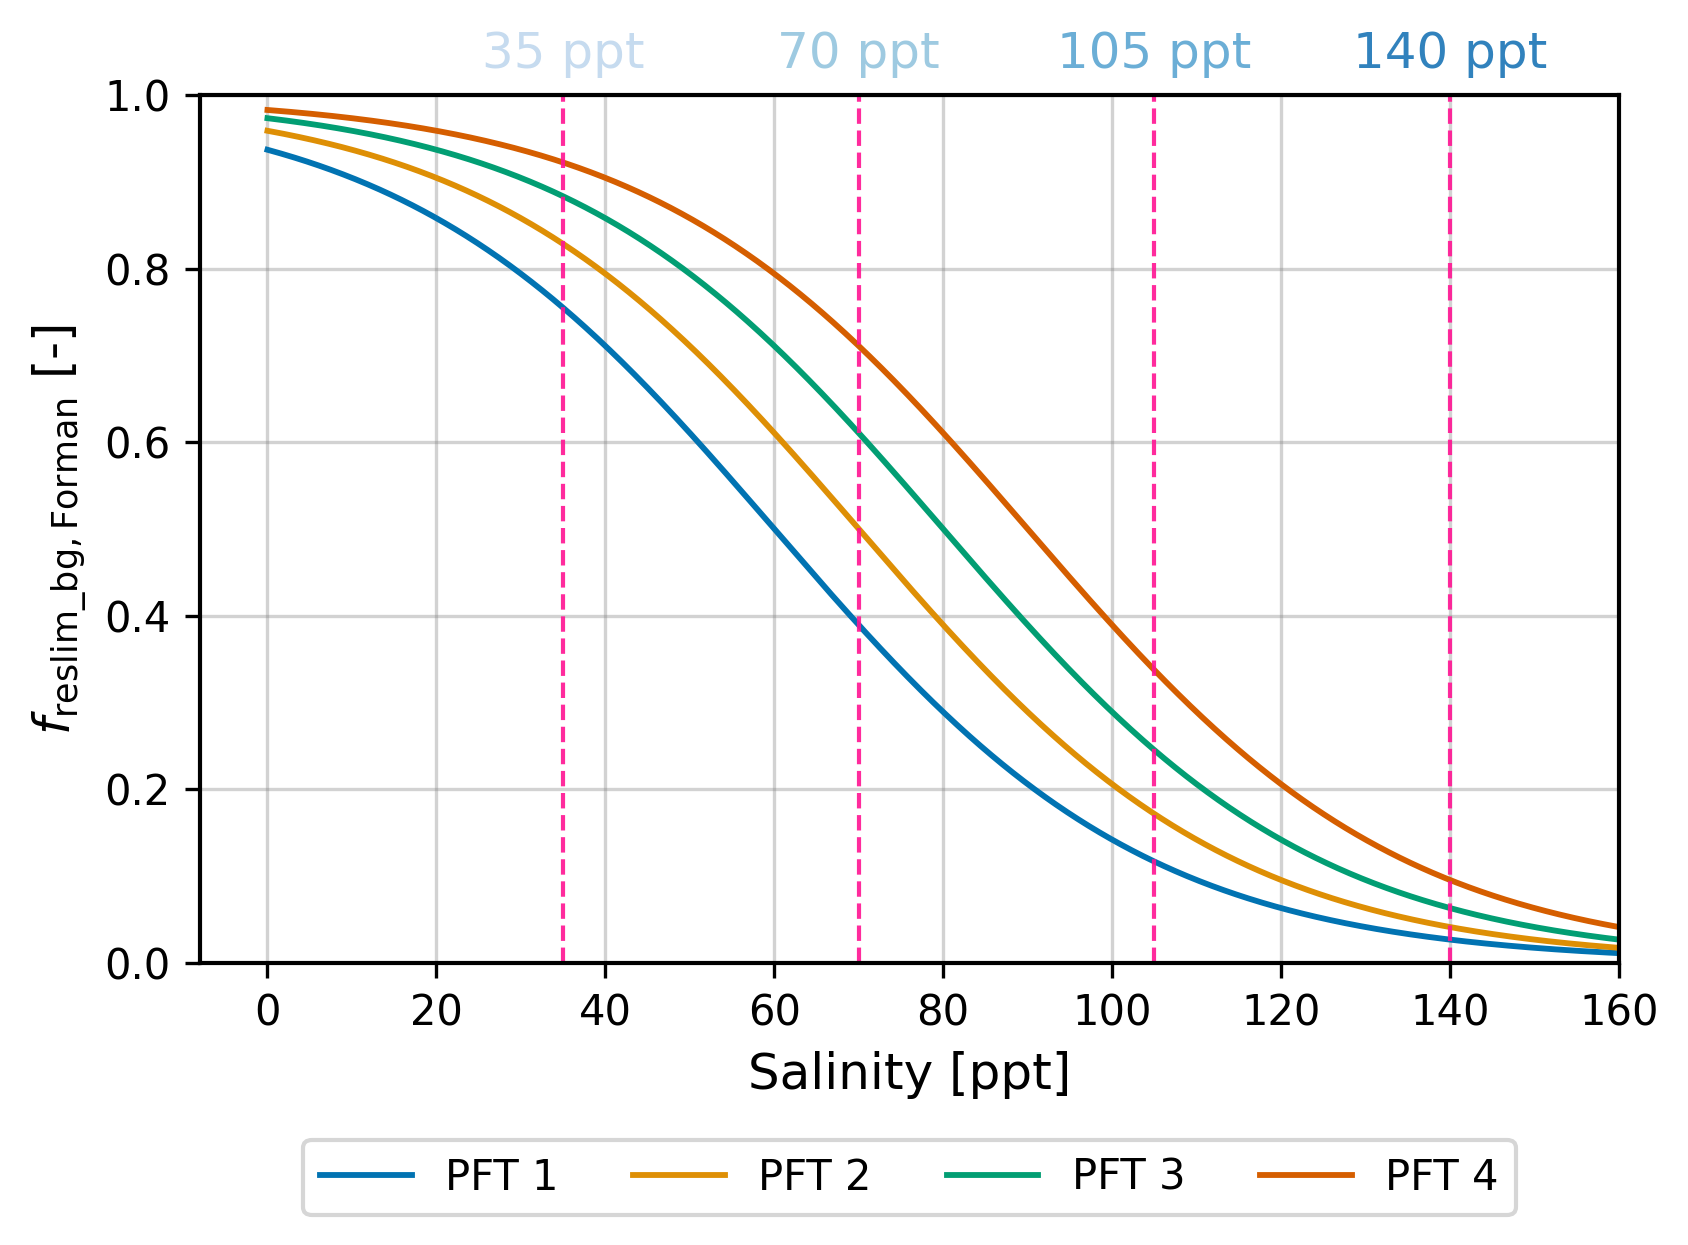
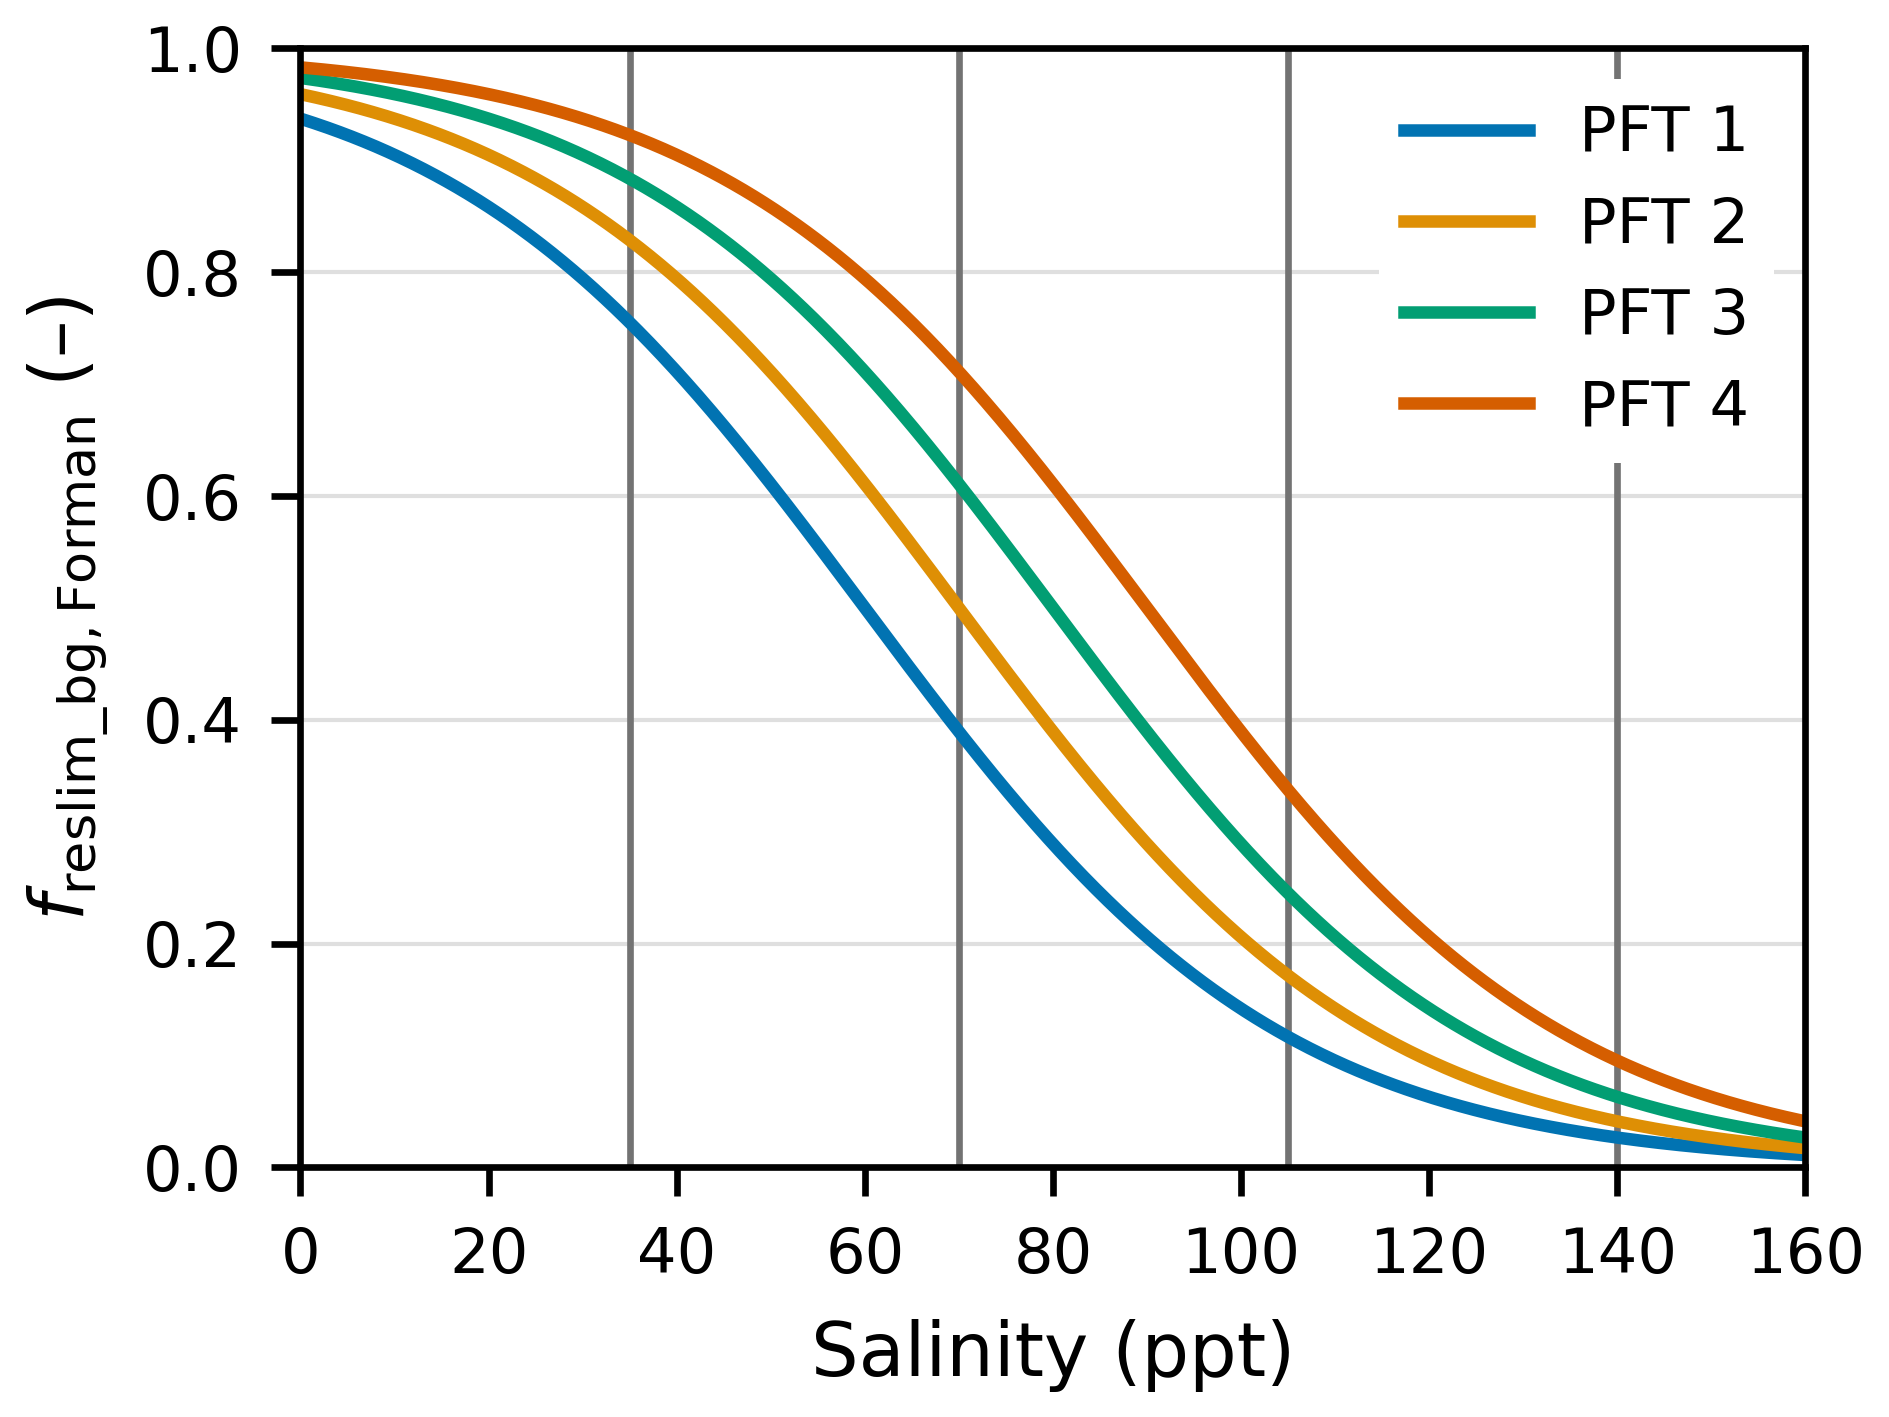
Update salinity figure and style

diff --git a/source/02_fig1_salinity_response.py b/source/02_fig1_salinity_response.py
@@ -27,21 +27,11 @@ so the figure is generated from the same parameter files used by the model setup
 """
 
 import importlib.util
-import sys
-from pathlib import Path
 
 import matplotlib.pyplot as plt
 import numpy as np
 
-
-# Allow this source/ script to be run directly with
-#     python source/<script_name>.py
-# as well as through run_analysis.py.
-REPO_ROOT_BOOTSTRAP = Path(__file__).resolve().parents[1]
-
-if str(REPO_ROOT_BOOTSTRAP) not in sys.path:
-    sys.path.insert(0, str(REPO_ROOT_BOOTSTRAP))
-
+import figure_config as _config
 from source.utils.paths import FIGURES_MAIN, SPECIES_DIR
 
 
@@ -56,27 +46,8 @@ OUT_PNG = OUT_DIR / "fig1_salinity_response.png"
 
 SALINITY_RANGE = np.linspace(0, 160, 1000)
 
-SALINITY_LINES = [35, 70, 105, 140]
-SALINITY_LABEL_COLORS = {
-    35: "#c6dbef",
-    70: "#9ecae1",
-    105: "#6baed6",
-    140: "#3182bd",
-}
-
-PFT_COLORS = {
-    1: "#0173b2",
-    2: "#de8f05",
-    3: "#029e73",
-    4: "#d55e00",
-}
-
-PFT_LABELS = {
-    1: "PFT 1",
-    2: "PFT 2",
-    3: "PFT 3",
-    4: "PFT 4",
-}
+# Static salinities of the simulations, marked by vertical reference lines.
+SALINITY_LINES = _config.SAL_STATIC
 
 
 # =============================================================================
@@ -95,7 +66,7 @@ def load_pft_parameters():
     """Read salinity response parameters from the four species files."""
     pft_parameters = {}
 
-    for pft in [1, 2, 3, 4]:
+    for pft in _config.PFTS:
         species_file = SPECIES_DIR / f"Saltmarsh_{pft}.py"
 
         if not species_file.is_file():
@@ -105,10 +76,8 @@ def load_pft_parameters():
         geometry, parameter = module.createPlant()
 
         pft_parameters[pft] = {
-            "label": PFT_LABELS[pft],
             "U_i": float(parameter["salt_effect_ui"]),
             "d": float(parameter["salt_effect_d"]),
-            "color": PFT_COLORS[pft],
         }
 
     return pft_parameters
@@ -124,95 +93,39 @@ def logistic_curve(salinity, u_i, d):
 # =============================================================================
 
 def main():
-    plt.rcParams.update(
-        {
-            "font.family": "sans-serif",
-            "font.sans-serif": ["DejaVu Sans", "Arial"],
-            "font.size": 11,
-            "axes.labelsize": 12,
-            "xtick.labelsize": 10,
-            "ytick.labelsize": 10,
-            "legend.fontsize": 10,
-            "axes.linewidth": 1.0,
-        }
-    )
+    _config.apply_style()
 
     pft_parameters = load_pft_parameters()
 
-    fig, ax = plt.subplots(figsize=(5.8, 4.4))
+    fig, ax = plt.subplots(figsize=_config.figsize_mm(_config.WIDTH_HALF_MM, 60))
 
     for pft, params in pft_parameters.items():
-        belowground_factor = logistic_curve(
-            SALINITY_RANGE,
-            params["U_i"],
-            params["d"],
-        )
-
         ax.plot(
             SALINITY_RANGE,
-            belowground_factor,
-            color=params["color"],
-            linewidth=1.4,
-            label=params["label"],
+            logistic_curve(SALINITY_RANGE, params["U_i"], params["d"]),
+            color=_config.pft_color_map[pft],
+            label=f"PFT {pft}",
         )
 
+    # Reference lines at the simulated salinities. The grid is horizontal only,
+    # so these are the only vertical lines.
     for salinity in SALINITY_LINES:
-        ax.axvline(
-            x=salinity,
-            color="deeppink",
-            linestyle="--",
-            linewidth=1.0,
-            alpha=0.9,
-        )
+        ax.axvline(salinity, color="0.45", linewidth=0.8, zorder=1)
 
-        ax.text(
-            salinity,
-            1.02,
-            f"{salinity} ppt",
-            color=SALINITY_LABEL_COLORS[salinity],
-            fontsize=12,
-            ha="center",
-            va="bottom",
-            clip_on=False,
-        )
+    ax.set_xlabel("Salinity (ppt)")
+    ax.set_ylabel(r"$f_{\mathrm{reslim\_bg,Forman}}$ (–)")
 
-    ax.set_xlabel("Salinity [ppt]")
-    ax.set_ylabel(r"$f_{\mathrm{reslim\_bg,Forman}}$ [-]")
-
-    ax.set_xlim(-8, 160)
+    ax.set_xlim(0, 160)
     ax.set_ylim(0.0, 1.0)
-
     ax.set_xticks(np.arange(0, 161, 20))
-    ax.set_yticks(np.arange(0.0, 1.01, 0.2))
 
-    ax.grid(
-        True,
-        color="gray",
-        alpha=0.35,
-        linewidth=0.8,
-    )
+    ax.set_axisbelow(True)
+    ax.grid(axis="y", linewidth=0.5, alpha=0.4)
 
-    ax.legend(
-        loc="upper center",
-        bbox_to_anchor=(0.5, -0.18),
-        ncol=4,
-        frameon=True,
-        handlelength=2.2,
-        columnspacing=1.8,
-    )
+    ax.legend(loc="upper right")
 
-    fig.tight_layout()
-
-    fig.savefig(
-        OUT_PNG,
-        dpi=300,
-        bbox_inches="tight",
-    )
-
-
+    _config.save_figure(fig, OUT_PNG)
     plt.close(fig)
-
-    print(f"Saved: {OUT_PNG}")
 
 
 if __name__ == "__main__":
